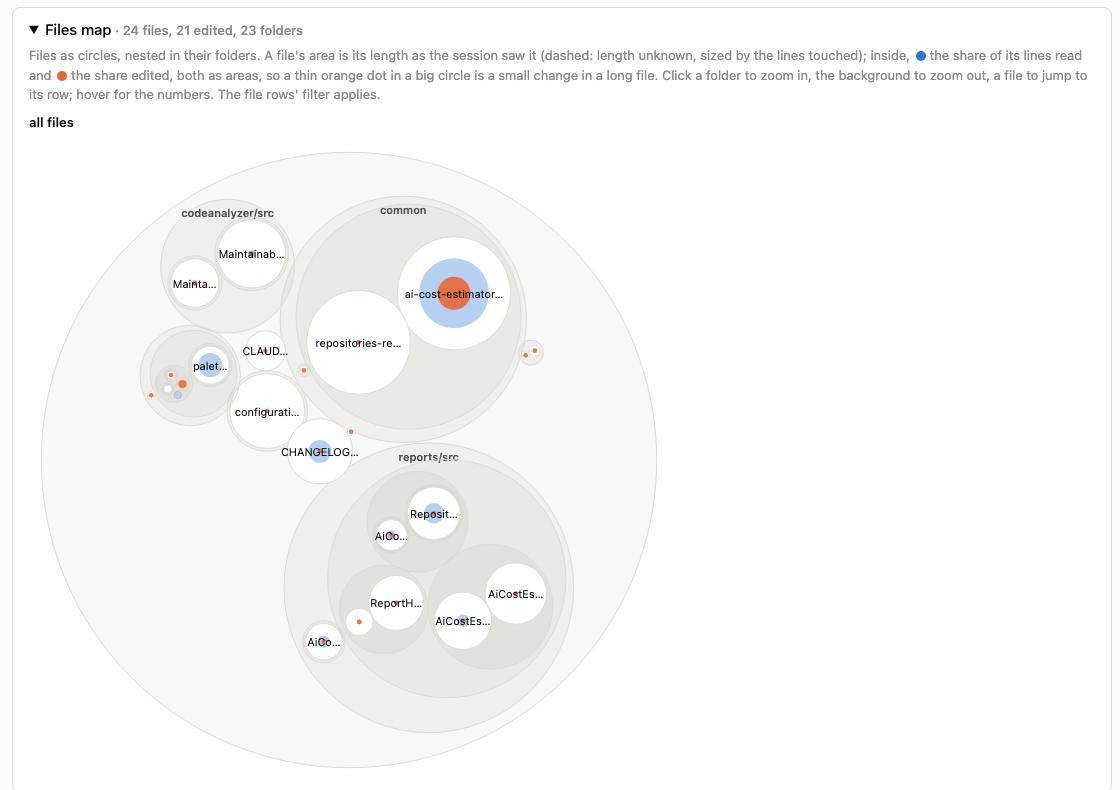
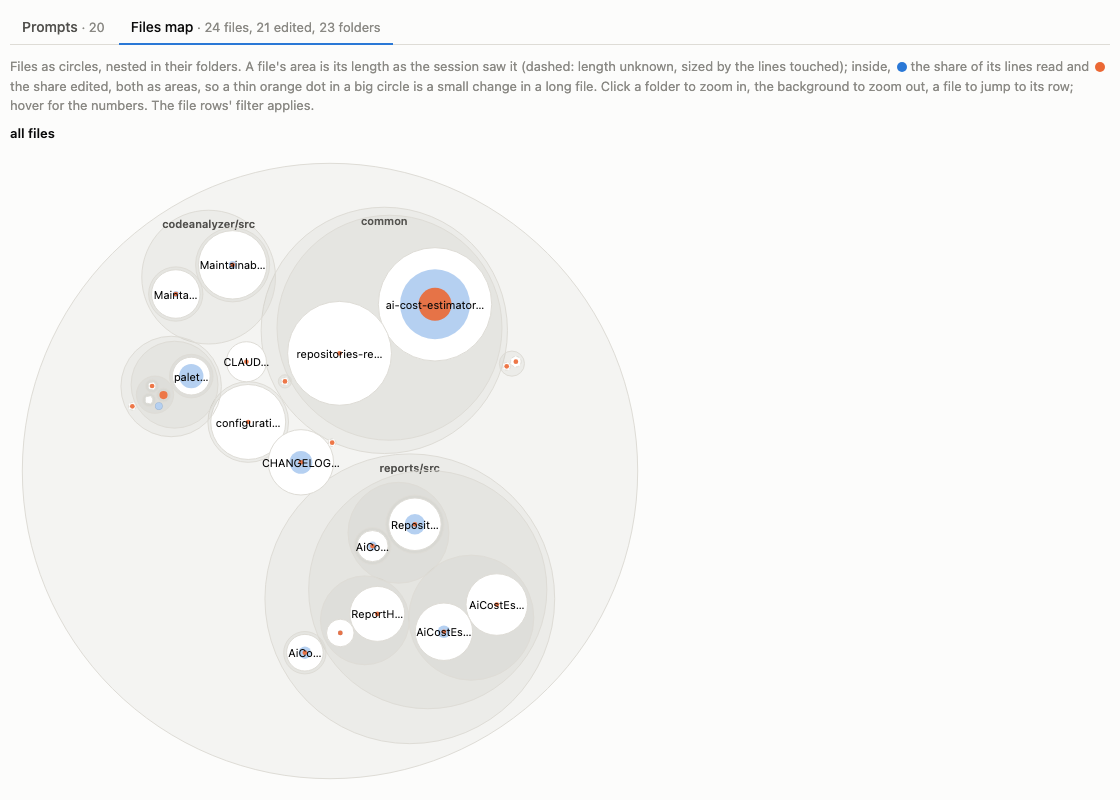
README: files map screenshot as the trace page's tab

diff --git a/README.md b/README.md
@@ -123,7 +123,7 @@ cache writes is not modelled.
   Click a folder to zoom into it, its background or the breadcrumb to zoom out, a file to jump to its row; hover
   gives the numbers; the file rows' filter applies. Packed and zoomed by a small routine in the page, no library.
 
-  ![The files map of a session: files as circles nested in their folders, the share of each file read in blue and edited in orange](images/files-map.png)
+  ![The Files map tab of a session, next to the Prompts tab: files as circles nested in their folders, the share of each file read in blue and edited in orange](images/files-map.png)
 
 Hover a cell for details, click a turn to list its commands in the panel beside the grid (below it when the grid
 needs the width; the grid's total column stays in view when it scrolls). All three token rows share one scale.
